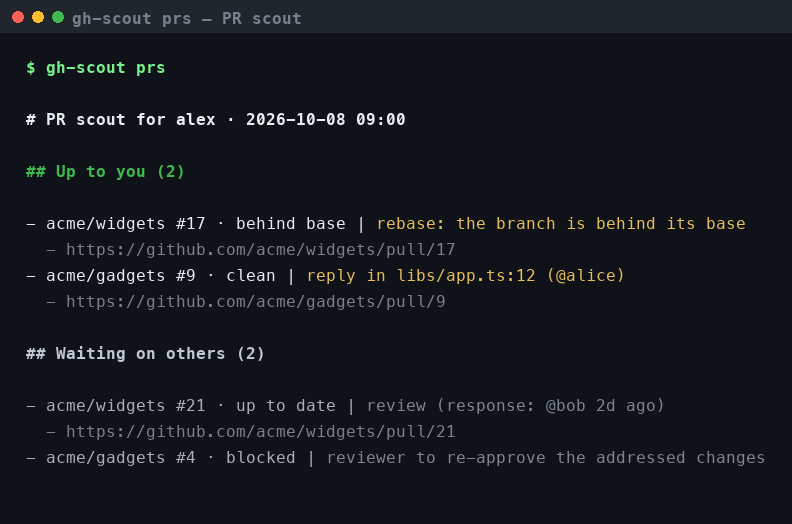
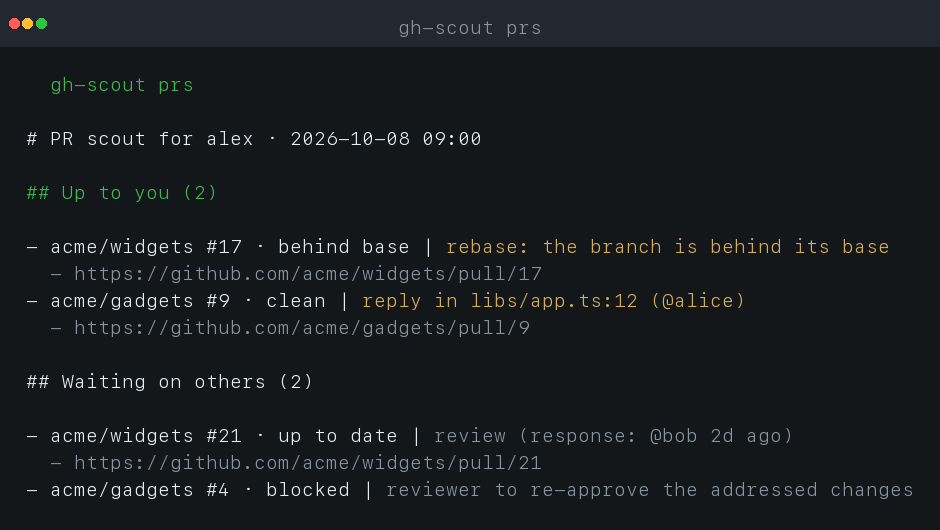
docs: generate the PR scout screenshot from make_shots.py
Add the PR scout report to assets/make_shots.py so docs/prs-scout.png is
reproducible (same SFNSMono terminal style as the other screenshots) instead
of a one-off render.

diff --git a/assets/make_shots.py b/assets/make_shots.py
@@ -3,7 +3,7 @@ from PIL import Image, ImageDraw, ImageFont
 
 FONT = "/System/Library/Fonts/SFNSMono.ttf"
 BG=(19,23,26); TITLE=(35,40,48); FG=(230,237,243)
-GREEN=(63,185,80); BLUE=(88,166,255); RED=(248,81,73); GRAY=(139,148,158)
+GREEN=(63,185,80); BLUE=(88,166,255); RED=(248,81,73); GRAY=(139,148,158); YELLOW=(214,175,90)
 
 def textw(d, t, font): return d.textlength(t, font=font)
 
@@ -71,3 +71,24 @@ session=[
  line(FG,"_12 issue(s) examined, 4 ready._"),
 ]
 render("assets/session.png", session, fs=19, pad=26, tab_h=46, title="gh-scout · contribution issues without duplicate work")
+
+# PR scout report
+prs=[
+ [ (GREEN,"❯ "),(GREEN,"gh-scout prs") ],
+ [ (BG,"") ],
+ line(FG,"# PR scout for alex · 2026-10-08 09:00"),
+ [ (BG,"") ],
+ line(GREEN,"## Up to you (2)"),
+ [ (BG,"") ],
+ [ (FG,"- acme/widgets #17 · behind base | "),(YELLOW,"rebase: the branch is behind its base") ],
+ line(GRAY,"  - https://github.com/acme/widgets/pull/17"),
+ [ (FG,"- acme/gadgets #9 · clean | "),(YELLOW,"reply in libs/app.ts:12 (@alice)") ],
+ line(GRAY,"  - https://github.com/acme/gadgets/pull/9"),
+ [ (BG,"") ],
+ line(FG,"## Waiting on others (2)"),
+ [ (BG,"") ],
+ [ (FG,"- acme/widgets #21 · up to date | "),(GRAY,"review (response: @bob 2d ago)") ],
+ line(GRAY,"  - https://github.com/acme/widgets/pull/21"),
+ [ (FG,"- acme/gadgets #4 · blocked | "),(GRAY,"reviewer to re-approve the addressed changes") ],
+]
+render("docs/prs-scout.png", prs, fs=19, pad=26, tab_h=46, title="gh-scout prs")
